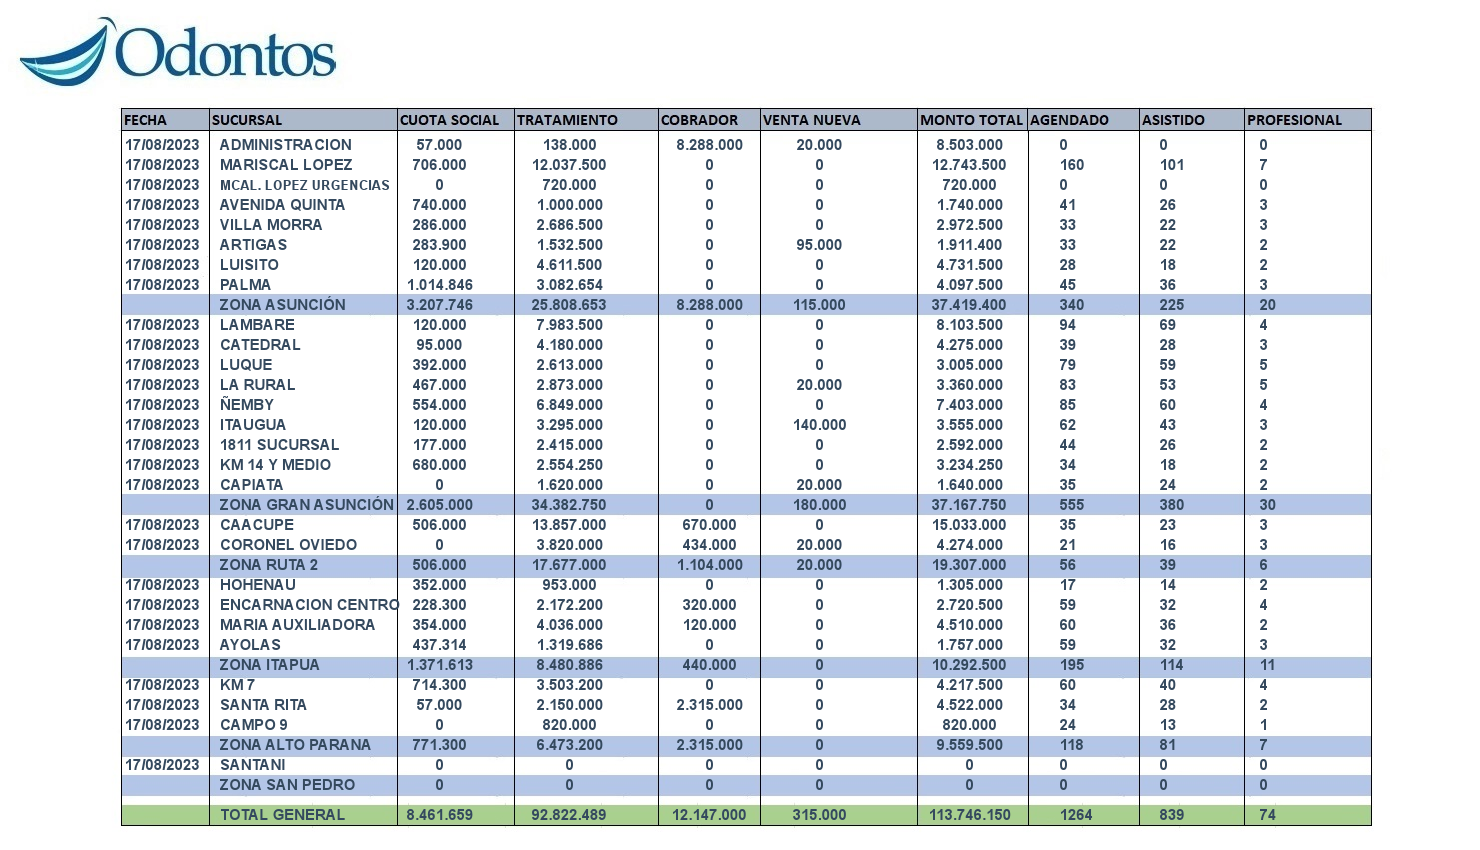
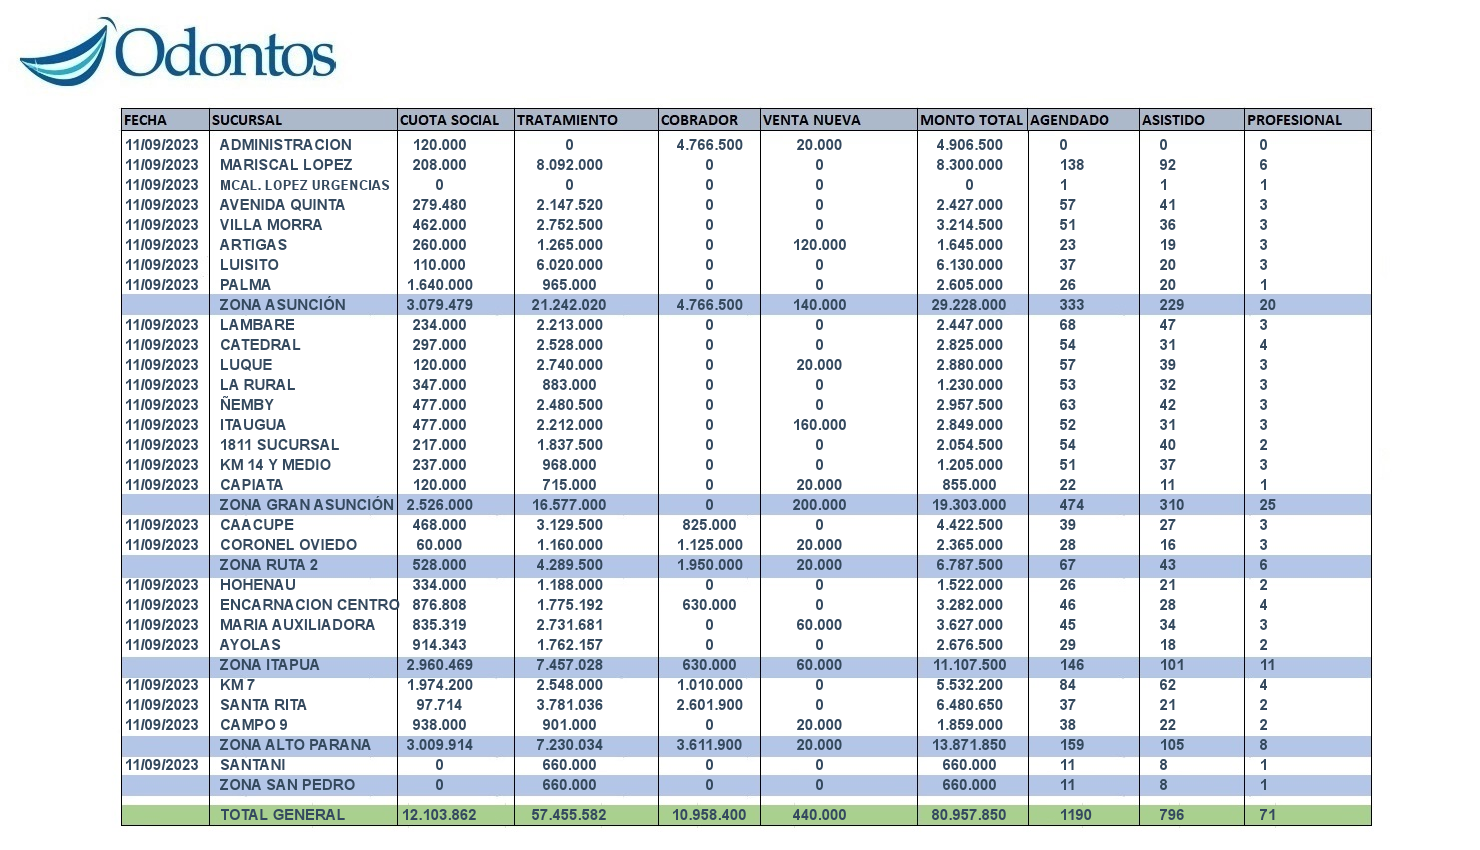
bkp upd

diff --git a/reporte_cierre.js b/reporte_cierre.js
@@ -66,6 +66,27 @@ let todasSucursalesActivas = [];
 // Blacklist fechas
 const blacklist = ["2023-05-02", "2023-05-16"];
 
+/**
+ *  PARAMETROS
+ *  PARA EJECUTAR MANUALMENTE
+ *  Y DE UNA FECHA ANTERIOR
+ */
+
+// Fecha del reporte, del registro, y fecha de la primera consulta al JKMT
+let fechaFiltroGlobal = '2023-09-11';
+// para la segunda consulta. la fecha desde y fecha hasta
+let fechaDesde = '2023-09-11 00:00:00'
+let fechaHasta = '2023-09-11 23:59:55' 
+// la que se muestra en la imagen. La primera columna
+let fechaLocalGlobal = '11/09/2023'
+
+/**
+ *  FIN
+ *  PARAMETROS
+ *  PARA EJECUTAR MANUALMENTE
+ *  Y DE UNA FECHA ANTERIOR
+ */
+
 module.exports = (app) => {
   const Reporte_cierre = app.db.models.Reporte_cierre;
   const Reporte_turnos = app.db.models.Reporte_turno;
@@ -139,7 +160,7 @@ module.exports = (app) => {
 
     // La fecha filtro para buscar los registros
     //let fechaHoyFiltro = year + "-" + month + "-" + day;
-    let fechaHoyFiltro = '2023-08-17'
+    let fechaHoyFiltro = fechaFiltroGlobal;
 
     Firebird.attach(odontos, function (err, db) {
       if (err) throw err;
@@ -147,7 +168,7 @@ module.exports = (app) => {
       db.query(
         // Trae los ultimos 50 registros de turnos del JKMT 
         //"SELECT * FROM PROC_PANEL_ING_X_CONCEPTO_X_SUC(CURRENT_DATE, CURRENT_DATE)",
-        "SELECT * FROM XPROC_PANEL_ING_X_CONCEPTO_X_SU('2023-08-17', '2023-08-17')",
+        "SELECT * FROM XPROC_PANEL_ING_X_CONCEPTO_X_SU('" + fechaFiltroGlobal + "', '" + fechaFiltroGlobal + "')",
 
         function (err, result) {
           console.log("Cant de registros de Cierres obtenidos:", result.length);
@@ -242,7 +263,7 @@ module.exports = (app) => {
 
     // La fecha filtro para buscar los registros
     //let fechaHoyFiltro = year + "-" + month + "-" + day;
-    let fechaHoyFiltro = '2023-08-17';
+    let fechaHoyFiltro = fechaFiltroGlobal;
 
     Firebird.attach(odontos, function (err, db) {
       if (err) throw err;
@@ -257,7 +278,7 @@ module.exports = (app) => {
         FROM
         TURNOS T
         INNER JOIN SUCURSALES S ON T.COD_SUCURSAL = S.COD_SUCURSAL
-        WHERE T.FECHA_TURNO BETWEEN '2023-08-17' AND '2023-08-18'
+        WHERE T.FECHA_TURNO BETWEEN '`+fechaDesde+`' AND '`+fechaHasta+`'
        
         GROUP BY S.NOMBRE`,
 
@@ -422,7 +443,7 @@ module.exports = (app) => {
 
     // La fecha filtro para buscar los registros
     //let fechaHoyFiltro = year + "-" + month + "-" + day;
-    let fechaHoyFiltro = '2023-08-17';
+    let fechaHoyFiltro = fechaFiltroGlobal;
 
     const opcionesFormato = {
       day: "2-digit", // Día del mes con dos dígitos (01, 02, 03, etc.)
@@ -432,7 +453,7 @@ module.exports = (app) => {
 
     // La fecha local para imprimir directamente en el canvas
     //const fechaLocal = fechaHoy.toLocaleDateString(undefined, opcionesFormato);
-    const fechaLocal = '17/08/2023';
+    const fechaLocal = fechaLocalGlobal;
 
     setTimeout(() => {
       // Datos de las cantidades de los turnos

diff --git a/src/routes/reporte_cierre.js b/src/routes/reporte_cierre.js
@@ -59,6 +59,7 @@ let numerosDestinatarios = [
   { NOMBRE: "Ale Grance", NUMERO: "595986153301" },
   { NOMBRE: 'Mirna Quiroga', NUMERO: '595975437933' },
   { NOMBRE: 'Odontos Tesoreria', NUMERO: '595972615299' },
+  { NOMBRE: 'Caja Palma', NUMERO: '595994449887' },
 ];
 
 let todasSucursalesActivas = [];
